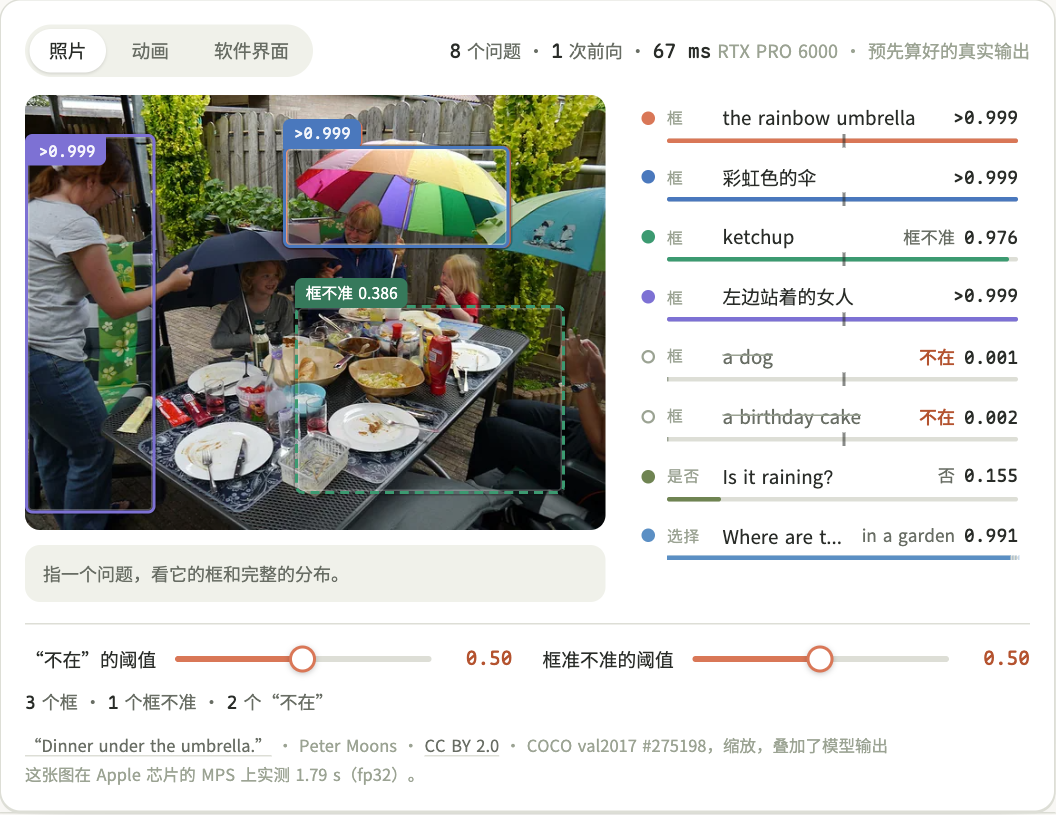
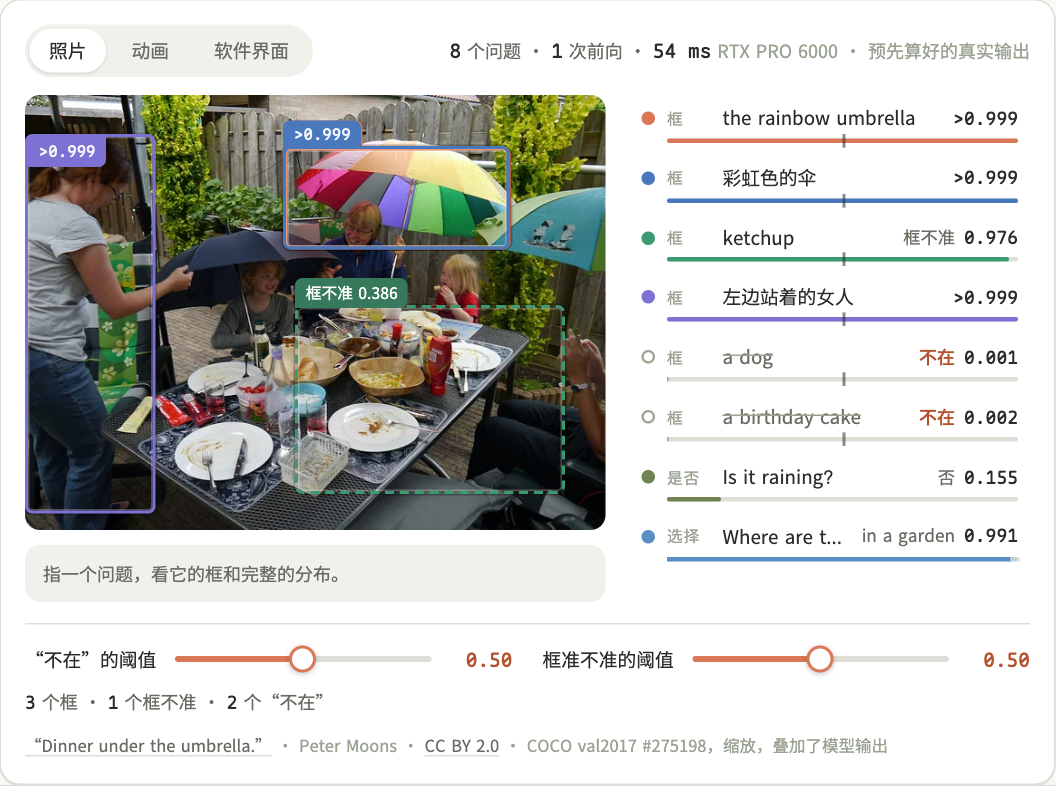
post(glance): widgets quote the measured mixed-question latency and name the decoding rule they plot
The hero now shows 54 ms (eight mixed questions on the optimized engine)
and drops the on-device timing line; the dial calls its whole-string rule
an approximation of MAP that exact search confirms on a sample. Stills
are retaken from the new defaults.

diff --git a/content/widgets/glance/dial.js b/content/widgets/glance/dial.js
@@ -8,7 +8,7 @@ const RULES = [["greedy", "贪心解码"], ["threshold", "阈值 0.5"], ["map", 
 const RULE_TEXT = {
   greedy: "每一步取最可能的 token，第一个 token 是 none 就算“不在”",
   threshold: "P(none) ≥ 0.5 就算“不在”",
-  map: "比较整串 none 和贪心解出的那串坐标的概率，大的赢；贪心串不一定是最可能的框，所以这是拒答率的上界",
+  map: "规则 A 的近似：整串 none 和贪心解出的坐标串比概率，大的赢；在抽样子集上和精确搜索几乎一致",
 };
 
 export default async function dial(stage, { base }) {
@@ -91,7 +91,7 @@ export default async function dial(stage, { base }) {
     say.replaceChildren(...(gate
       ? ["门控：阈值 ", el("b", { text: gateAt.toFixed(2) }), " 时，", el("b", { text: pct(px) }), " 的在场目标被说成“不在”，", el("b", { text: py.toFixed(1) + "%" }),
         " 的无目标表达式被拒掉。同一个底座上，四种坐标写法的曲线和它几乎重合：在 1% 误拒处都拒掉 81–82%，AUROC 都在 96.2–96.7。"]
-      : [`${h.label} 词表 + ${RULES.find(r => r[0] == rule)[1]}：`, rule == "map" ? "最多 " : "", el("b", { text: pct(px) }), " 的在场目标被说成“不在”。可它的曲线和门控几乎重合：在 1% 误拒处拒掉 ",
+      : [`${h.label} 词表 + ${RULES.find(r => r[0] == rule)[1]}：`, rule == "map" ? "约 " : "", el("b", { text: pct(px) }), " 的在场目标被说成“不在”。可它的曲线和门控几乎重合：在 1% 误拒处拒掉 ",
         el("b", { text: h.at1 + "%" }), "（门控 " + g.at1 + "%），AUROC ", el("b", { text: String(h.auroc) }), "（门控 " + g.auroc + "）。模型知道东西在不在，是解码规则在替它选点。"]));
   }
 

diff --git a/content/widgets/glance/hero.js b/content/widgets/glance/hero.js
@@ -93,7 +93,7 @@ export default async function hero(stage, { base }) {
       el("div.g-scan"),
       ...s.questions.map((q, j) => q.kind == "box" && q.box ? boxNode(q, j) : null)));
     list.replaceChildren(...s.questions.map(row));
-    credits.replaceChildren(credit(s.credit), el("p.g-credit", { text: `这张图在 Apple 芯片的 MPS 上实测 ${s.mps_s} s（fp32）。` }));
+    credits.replaceChildren(credit(s.credit));
     shot.classList.remove("seen");
     if (shown) requestAnimationFrame(() => requestAnimationFrame(() => shot.classList.add("seen")));
     update();
